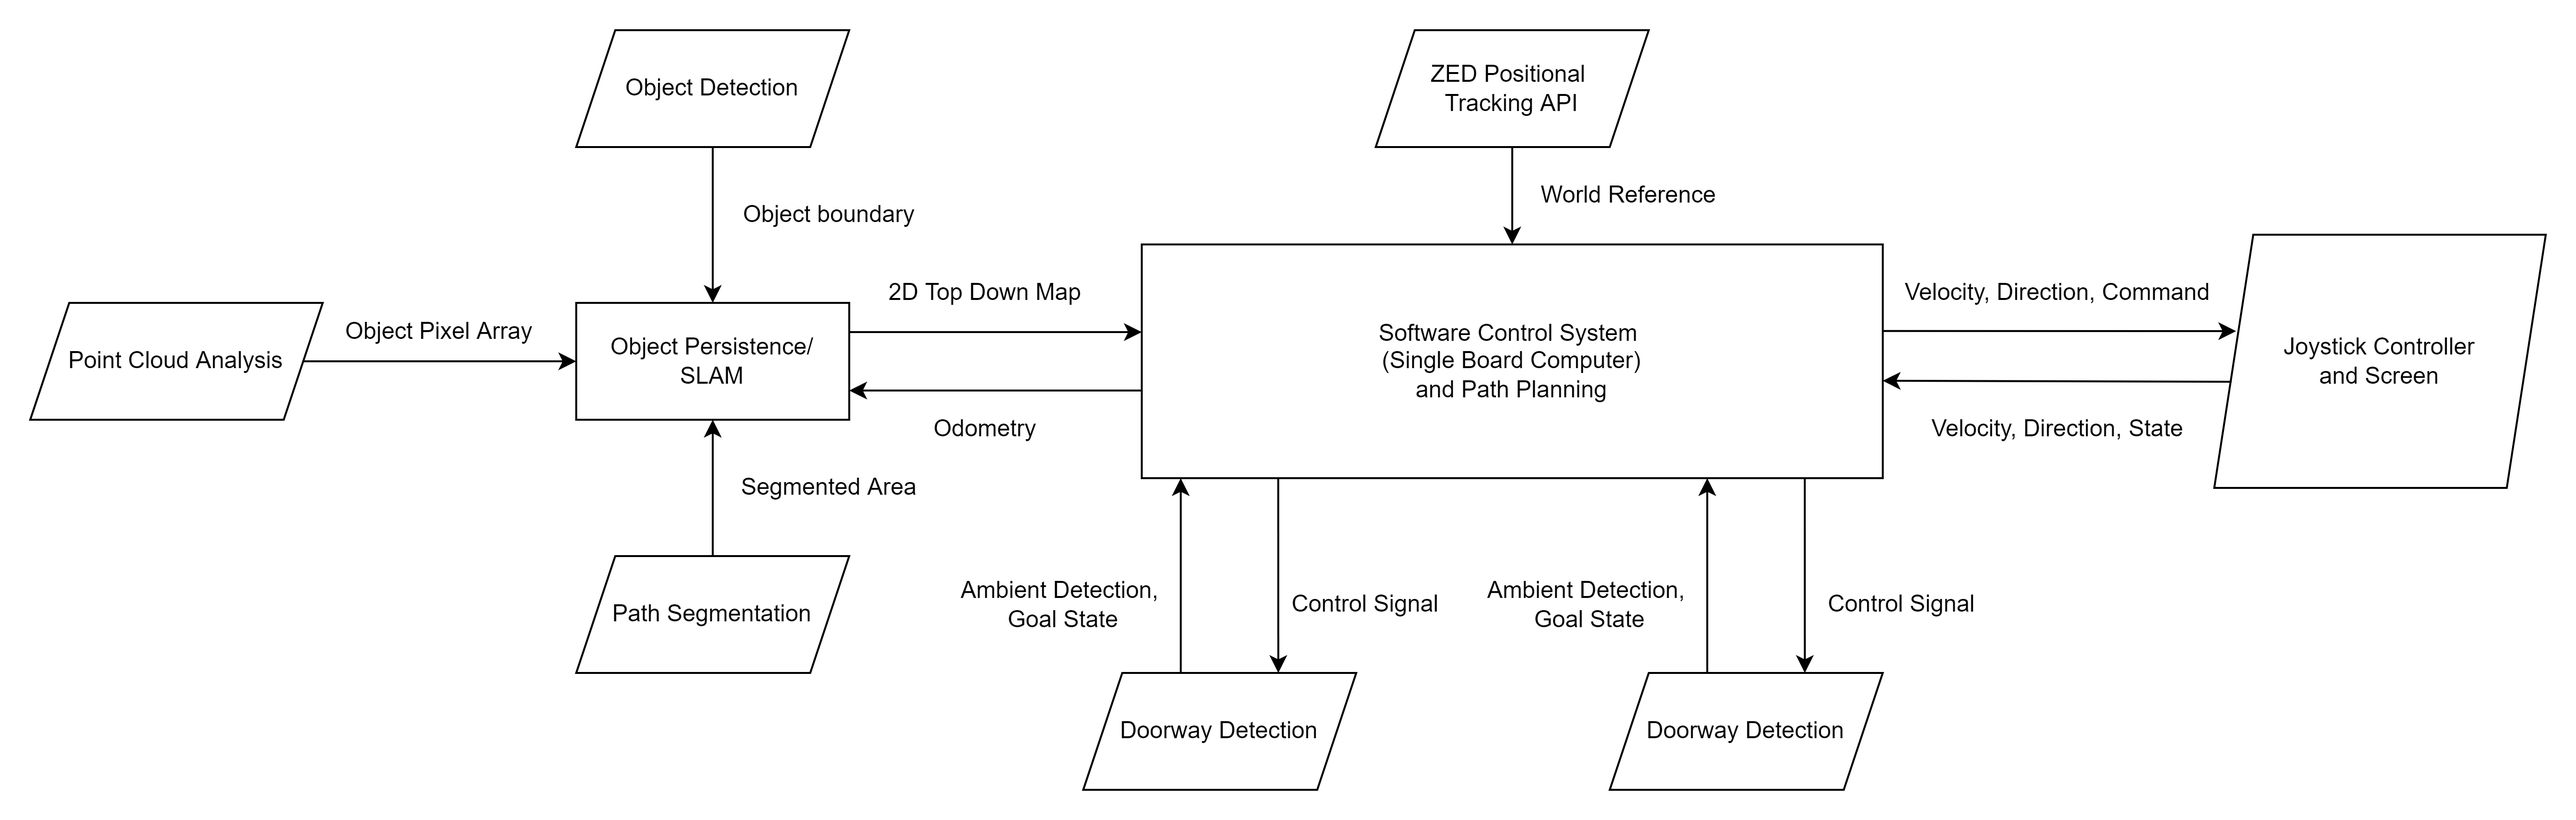
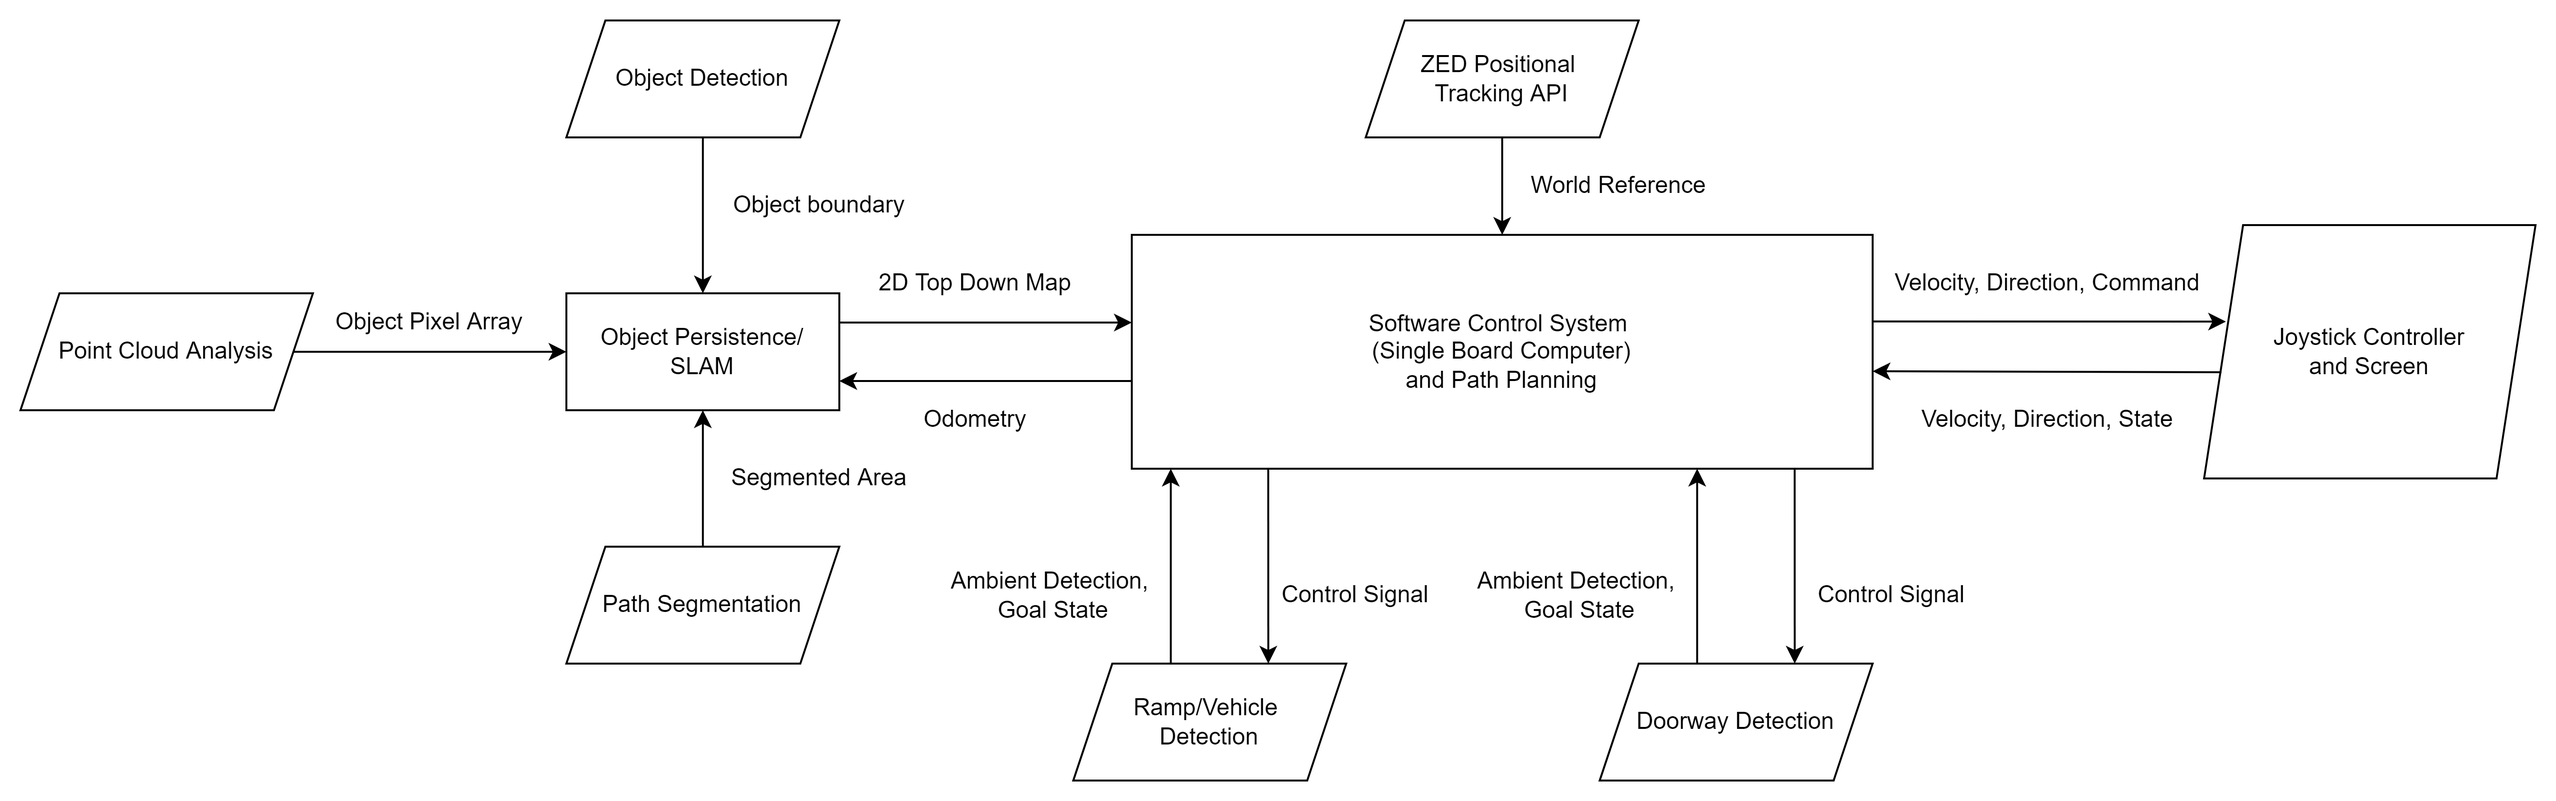
Finish future work draft

diff --git a/thesis/chapters/conclusion_and_future_work.tex b/thesis/chapters/conclusion_and_future_work.tex
@@ -60,6 +60,13 @@ new components required for a final smart wheelchair implementation,
 and integrating components developed by different project students into 
 one cohesive system.
 
+\begin{figure}[b]
+    \centering
+    \includegraphics[width=\linewidth]{images/top_level_software_pipeline.png}
+    \caption{Block diagram for future smart wheelchair system (drawn by Avinash Sudhakaran)}
+    \label{fig:top_level_software_pipeline}
+\end{figure}
+
 Although retraining the Hybridnets model was effective at improving
 accuracy on pathways such as paved brick, this came at the cost
 of greater noise. The effect of this noise on model accuracy
@@ -81,6 +88,15 @@ during retraining to enable the segmentation and identification of kerbs,
 which can present a serious risk to a wheelchair user. Kerbs can be difficult
 to identify using 3D point cloud data as some kerbs only rise above
 the ground by a small amount.
+
+The joystick controller of the wheelchair allows the user to choose between
+indoor and outdoor mode to control the speed of the wheelchair. This information could be intercepted using
+the input controller and passed to the software system, allowing different modes
+of operation for indoor and outdoor use. For example, it is likely that
+most indoor flooring will be drivable, making obstacle detection more important
+than drivable area detection in this setting. If drivable area detection was
+only enabled when in outdoor mode, the accuracy of the segmentation model
+in indoor settings would not be a concern.
 
 The 3D point cloud obstacle detection algorithm was effective
 at identifying environmental obstacles such as walls and handrails.
@@ -117,12 +133,85 @@ loop closures, which would help to keep an accurate model of the surrounding env
 As the SLAM algorithm performs relocalization, the positional tracking API may not
 be necessary to determine the location of the wheelchair in this case.
 
-\begin{figure}[b]
-    \centering
-    \includegraphics[width=\linewidth]{images/top_level_software_pipeline.png}
-    \caption{Block diagram for future smart wheelchair system}
-    \label{fig:top_level_software_pipeline}
-\end{figure}
+\Cref{fig:top_level_software_pipeline} shows the top-level block diagram for a future
+smart wheelchair system. The block diagram was planned alongside Krishnadas Suresh and
+Avinash Sudhakaran, and shows how the software components developed by thesis project students
+would work together in a complete smart wheelchair implementation. The default mode of operation
+of the smart wheelchair is semi-autonomous, in which path segmentation and point cloud analysis
+(explored in this thesis project) are used to generate a top-down occupancy map. Object detection,
+which was the focus of Krishnadas' thesis, would also be used to add moving objects such as
+pedestrians to the occupancy map. A SLAM algorithm could be used to update the occupancy map, as detailed above.
+
+%These systems would work by running detection algorithms
+%in the background, and prompting the user to enter fully autonomous navigation using a button
+%if a valid ramp or doorway was detected. These systems would then send a goal state to the
+%software control system, which would perform path planning using the occupancy map and
+%drive the wheelchair to this location before resuming semi-autonomous control.
+
+% add flowchart?
+% outdoor vs indoor mode
+% software design - ROS and backbone
+% control interface with hardware
+% integration with odometry and sensors API
+
+Once this occupancy map is built, it is passed to the software control system and used to determine
+a safe speed and direction for the wheelchair using user input.
+A proof-of-concept assistive control system was developed in this thesis using VFH+,
+but a more robust solution would likely be required for a final implementation. The wheelchair has
+two modes of operation for fully autonomous control, which are ramp/vehicle navigation (Nicolas Lee)
+and doorway navigation (Avinash Sudhakaran). These modes of operation will require the user to
+press a button to begin autonomous navigation when a valid ramp or doorway is detected.
+These systems will send a goal pose to the software control system, which plans a safe path
+using the occupancy map and drives the wheelchair to this pose. Once this has been performed,
+semi-autonomous wheelchair control can resume.
+
+To communicate between different software components, a publish/subscribe architecture
+is proposed. Using a framework such as ROS (robot operating system), each component would
+be defined as a node. These nodes can subscribe to other nodes to recieve data,
+and publish data to a topic (recieved by other nodes) once processed. ROS supports Python and C++, which would allow
+high-performance components in C++ and prototype or machine learning components in Python
+to communicate. An advantage of this approach is that interfaces between nodes
+are well defined, which speeds up development when multiple project students
+are working on the same system.
+
+System resources must be considered when designing a large system with many software components.
+If too many processes are using the CPU or GPU accelerator, the performance of the system
+will be impacted. In particular, an AI accelerator may not have enough memory or compute capability to run many complex
+models at once. One way to improve the performance of the AI accelerator would be to use a shared-backbone model
+architecture, which is used by Hybridnets and YOLOP. In this architecture, a complex model backbone
+is used to generate image features before several smaller `heads' utilise these features for different purposes.
+This would allow several models (e.g. obstacle detection, drivable area detection, doorway detection)
+to run at once with only a small performance impact.
+% TODO cite ROS
+
+To communicate with the wheelchair hardware, an interface between the software control system and the
+input controller/joystick controller must be implemented. The simplest way to implement this
+interface would be to use a USB serial port to communicate between the microcontroller and
+SBC (single board computer), with packets of data sent between the machines.
+The input controller would send information such as joystick position,
+seat position, and operation mode (indoor or outdoor) to the SBC. The SBC would relay back the
+desired velocity and direction of the wheelchair. Additional low-bandwidth sensors, such as
+1D ultrasonic sensors or wheel odometry sensors, could interface with the input controller
+which would relay this information back to the SBC. The input controller would validate
+the desired velocity and direction of the wheelchair before sending this information
+to the motor controller, allowing it to override the SBC in the case of a software failure.
+
+A secondary driving dataset could be collected once the input controller has been integrated into
+the software control system. This driving dataset would contain joystick data and other wheelchair data
+as well as the \texttt{svo} files used to record data from the ZED Mini. A simple method of storing joystick
+data would be to use a csv file; alternatively, a more complex data format such as HDF5 could be used
+to compress this data and store it in a binary format.
+
+This thesis has involved implementation and testing
+of various components of smart wheelchair technology. The future work detailed in
+this section shows the steps needed to move from this initial research to a complete
+smart wheelchair system, which can improve the safety and independence of wheelchair users.
+
+%The positional tracking API is a high-level interface that estimates the pose of the wheelchair,
+%however does not allow sensor fusion from additional sensors outside of the ZED Mini.
+%One way to integrate wheel odometry sensors into the positional tracking system would
+%be to use the sensors API to retrieve raw sensor data and a Kalman filter to eliminate sensor noise.
+
 
 %Future work of this project involves remaining technical progress detailed in the methodology,
 %and the final thesis write-up.

diff --git a/thesis/chapters/methodology.tex b/thesis/chapters/methodology.tex
@@ -102,8 +102,9 @@ An input controller is being developed by project student Brian Smith to interce
 commands from the joystick module and communicate with the smart wheelchair navigation system.
 The input controller enables the navigation system to receive user commands and choose a safe
 direction and speed for the wheelchair.
-A high-level protocol between the navigation system and input controller has been designed
-and is detailed in the future work section of this thesis. The input controller will validate the
+%A high-level protocol between the navigation system and input controller has been designed
+%and is detailed in the future work section of this thesis.
+The input controller will validate the
 navigation system's output, ensuring that the user
 can still safely maneuver the wheelchair in the case of a software failure.
 Additionally, a motor controller was developed by project student

diff --git a/thesis/chapters/introduction.tex b/thesis/chapters/introduction.tex
@@ -28,8 +28,9 @@ for this functionality (\cref{fig:wheelchair}). By developing assistive technolo
 the user is granted greater mobility, confidence, and independence.
 
 The project team comprises multiple engineering project students, researchers, and interns.
-This team has worked on many smart wheelchair features, including controller design,
-object detection, doorway navigation, and alternative input methods.
+This team has worked on many smart wheelchair features, including motor controller design (Kosma Egan),
+input controller design (Brian Smith), doorway navigation (Avinash Sudhakaran),
+object detection (Krishnadas Suresh), and vehicle transfer (Nicolas Lee).
 The specific aim of this thesis is to implement navigation assistance,
 which involves both avoiding environmental obstacles such as walls and stairs,
 and guiding the user along suitable pathways. If a user were to unintentionally
